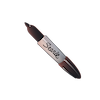
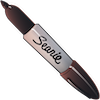
update cursor

Changed region(s): [[0.0, 0.0, 1.0, 1.0]]

diff --git a/style.css b/style.css
@@ -15,7 +15,7 @@ img {
 }
 
 a {
-  cursor: url(images/sharpie_cursor.png), auto;
+  cursor: url(images/sharpie_cursor.png), pointer;
 }
 
 header h1 {
